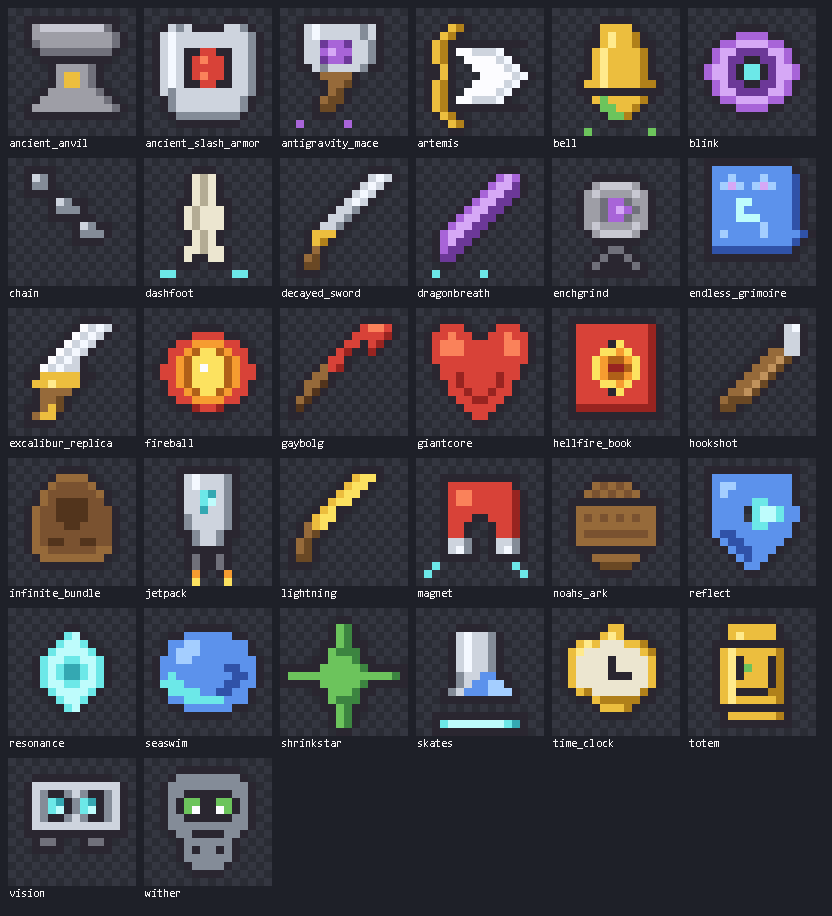
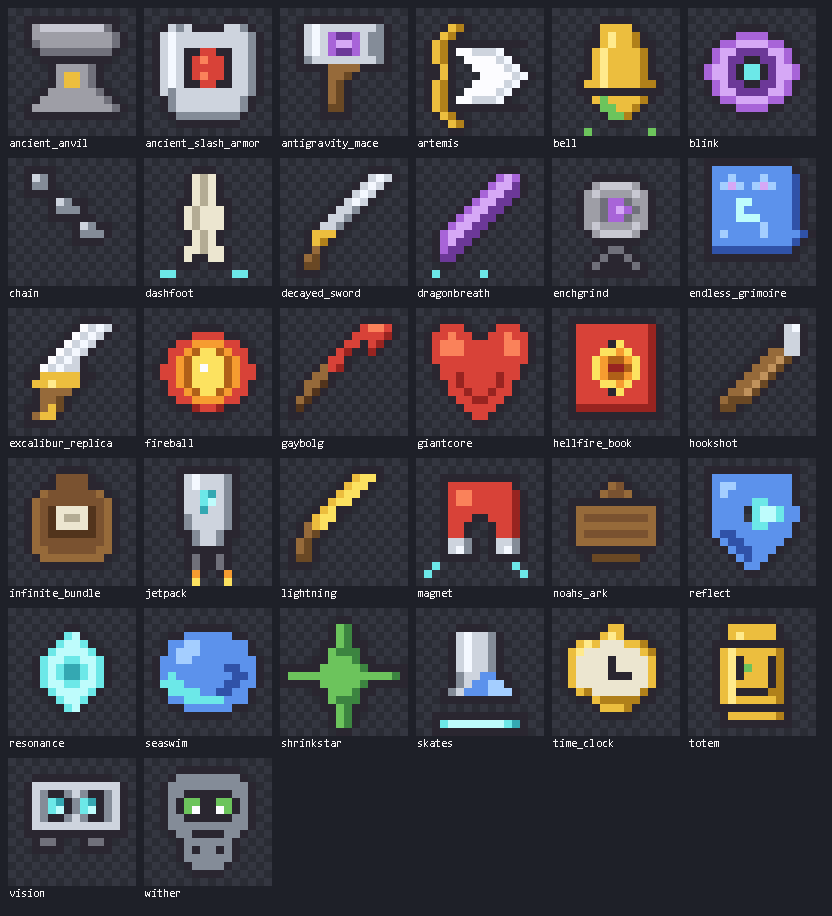
test: lock elite/craft rules; art: refine mace, bundle, ark sprites

Changed region(s): [[0.0312, 0.5197, 0.1562, 0.6114], [0.6875, 0.5197, 0.7812, 0.6419], [0.375, 0.0306, 0.4688, 0.1223]]

diff --git a/src/test/java/org/server/mifron/EliteAndCraftRulesTest.java b/src/test/java/org/server/mifron/EliteAndCraftRulesTest.java
@@ -1,0 +1,140 @@
+package org.server.mifron;
+
+import static org.junit.jupiter.api.Assertions.assertEquals;
+import static org.junit.jupiter.api.Assertions.assertFalse;
+import static org.junit.jupiter.api.Assertions.assertTrue;
+
+import java.util.Arrays;
+import org.bukkit.entity.EntityType;
+import org.junit.jupiter.api.Test;
+
+/**
+ * エリート改修と特殊クラフトの仕様を固定するテスト。
+ *
+ * <p>仕様（依頼）:
+ * <ul>
+ *   <li>狙撃弓は最大2倍まで引き絞れる</li>
+ *   <li>第二形態は エルダーガーディアン / ピグリンブルート / ウィザー / エンダードラゴン / ウォーデン のみ</li>
+ *   <li>腐死王系（ゾンビ・ハスク・ドラウンド）だけが Smite なしで復活する</li>
+ *   <li>狙撃弓・連射式弩弓はレリックではなく特殊クラフト</li>
+ * </ul>
+ */
+class EliteAndCraftRulesTest {
+
+   // ------------------------------------------------------------------
+   // 狙撃弓の引き絞り
+   // ------------------------------------------------------------------
+
+   @Test
+   void sniperRatioMatchesVanillaAtFullDraw() {
+      // 20tick = バニラのフルチャージ = 1.0倍
+      assertEquals(1.0, SpecialCraftFeature.sniperRatio(20), 1.0e-9);
+   }
+
+   @Test
+   void sniperRatioReachesTwiceAtDoubleDraw() {
+      assertEquals(2.0, SpecialCraftFeature.sniperRatio(40), 1.0e-9);
+   }
+
+   @Test
+   void sniperRatioIsCappedAtTwo() {
+      assertEquals(2.0, SpecialCraftFeature.sniperRatio(200), 1.0e-9,
+         "2倍を超えて伸びてはいけない");
+   }
+
+   @Test
+   void sniperRatioHasAFloorForTinyDraws() {
+      assertEquals(0.1, SpecialCraftFeature.sniperRatio(0), 1.0e-9);
+      assertEquals(0.1, SpecialCraftFeature.sniperRatio(1), 1.0e-9);
+   }
+
+   @Test
+   void sniperRatioIsMonotonic() {
+      double previous = -1.0;
+      for (int ticks = 0; ticks <= 60; ticks++) {
+         double value = SpecialCraftFeature.sniperRatio(ticks);
+         assertTrue(value >= previous, "倍率は tick に対して単調増加であるべき: " + ticks);
+         previous = value;
+      }
+   }
+
+   // ------------------------------------------------------------------
+   // 第二形態の制限
+   // ------------------------------------------------------------------
+
+   @Test
+   void phase2IsLimitedToTheFiveHeadlineBosses() {
+      for (EntityType type : new EntityType[] {
+         EntityType.ELDER_GUARDIAN, EntityType.PIGLIN_BRUTE, EntityType.WITHER,
+         EntityType.ENDER_DRAGON, EntityType.WARDEN
+      }) {
+         assertTrue(EliteMobFeature.supportsPhase2(type), type + " は第二形態を持つ");
+      }
+   }
+
+   @Test
+   void phase2IsRemovedFromEverythingElse() {
+      for (EntityType type : new EntityType[] {
+         EntityType.ZOMBIE, EntityType.HUSK, EntityType.DROWNED, EntityType.SKELETON,
+         EntityType.CREEPER, EntityType.ENDERMAN, EntityType.BLAZE, EntityType.SPIDER,
+         EntityType.GHAST, EntityType.RAVAGER, EntityType.WITCH, EntityType.PILLAGER,
+         EntityType.GUARDIAN, EntityType.SHULKER, EntityType.PHANTOM
+      }) {
+         assertFalse(EliteMobFeature.supportsPhase2(type), type + " は第二形態を持たない");
+      }
+      assertFalse(EliteMobFeature.supportsPhase2(null));
+   }
+
+   // ------------------------------------------------------------------
+   // 腐死王系の復活条件
+   // ------------------------------------------------------------------
+
+   @Test
+   void undeadKingsAreTheThreeZombieVariants() {
+      assertTrue(EliteMobFeature.isUndeadKing(EntityType.ZOMBIE));
+      assertTrue(EliteMobFeature.isUndeadKing(EntityType.HUSK));
+      assertTrue(EliteMobFeature.isUndeadKing(EntityType.DROWNED));
+      assertEquals(3, countUndeadKings());
+   }
+
+   @Test
+   void otherUndeadDoNotRevive() {
+      assertFalse(EliteMobFeature.isUndeadKing(EntityType.SKELETON));
+      assertFalse(EliteMobFeature.isUndeadKing(EntityType.WITHER_SKELETON));
+      assertFalse(EliteMobFeature.isUndeadKing(EntityType.ZOMBIE_VILLAGER));
+      assertFalse(EliteMobFeature.isUndeadKing(EntityType.PHANTOM));
+      assertFalse(EliteMobFeature.isUndeadKing(null));
+   }
+
+   private static int countUndeadKings() {
+      return (int) Arrays.stream(EntityType.values())
+         .filter(EliteMobFeature::isUndeadKing)
+         .count();
+   }
+
+   // ------------------------------------------------------------------
+   // レリックと特殊クラフトの住み分け
+   // ------------------------------------------------------------------
+
+   @Test
+   void sniperBowAndRepeatingCrossbowAreNotRelics() {
+      assertFalse(hasRelic("sniper_bow"), "狙撃弓は特殊クラフトへ移行した");
+      assertFalse(hasRelic("repeating_crossbow"), "連射式弩弓は特殊クラフトへ移行した");
+   }
+
+   @Test
+   void artemisIsARelic() {
+      assertTrue(hasRelic("artemis"));
+   }
+
+   @Test
+   void specialCraftIdsAreStable() {
+      assertEquals("sniper_bow", SpecialCraftFeature.SNIPER_BOW_ID);
+      assertEquals("repeating_crossbow", SpecialCraftFeature.REPEATING_CROSSBOW_ID);
+   }
+
+   private static boolean hasRelic(String id) {
+      return Arrays.stream(RelicFeature.RelicType.values())
+         .anyMatch(type -> type.id.equals(id));
+   }
+}

diff --git a/src/main/java/org/server/mifron/SpecialCraftFeature.java b/src/main/java/org/server/mifron/SpecialCraftFeature.java
@@ -46,6 +46,16 @@ public final class SpecialCraftFeature implements Listener {
     /** 連射式弩弓の連射間隔（tick）。 */
     private static final int REPEATER_INTERVAL_TICKS = 6;
 
+    /**
+     * 狙撃弓の引き絞り倍率。バニラのフルチャージ（20tick）を 1.0 とし、
+     * 40tick で上限 2.0 に達する。引きが浅すぎる場合は 0.1 に丸める。
+     */
+    static double sniperRatio(int drawTicks) {
+        double ratio = Math.min(SNIPER_MAX_MULTIPLIER,
+            Math.max(0, drawTicks) / (double) VANILLA_FULL_DRAW_TICKS);
+        return Math.max(0.1, ratio);
+    }
+
     private final Mifron plugin;
     private final NamespacedKey craftKey;
     private final Map<UUID, Long> sniperDrawStart = new HashMap<>();
@@ -115,8 +125,7 @@ public final class SpecialCraftFeature implements Listener {
         return item;
     }
 
-    /** アイテムがどの特殊クラフトか（違えば null）。 */
-    public String craftId(ItemStack item) {
+    /** アイテムがどの特殊クラフトか（違えば null）。 */    public String craftId(ItemStack item) {
         if (item == null || !item.hasItemMeta()) return null;
         ItemMeta meta = item.getItemMeta();
         if (meta == null) return null;
@@ -138,10 +147,7 @@ public final class SpecialCraftFeature implements Listener {
             : (int) Math.max(0L, (System.currentTimeMillis() - start) / 50L);
 
         // バニラのフルチャージを1.0倍とし、2倍まで伸ばす。
-        double ratio = Math.min(SNIPER_MAX_MULTIPLIER,
-            drawTicks / (double) VANILLA_FULL_DRAW_TICKS);
-        // 引きが浅すぎる場合はバニラ同様に弱くする。
-        if (ratio < 0.1) ratio = 0.1;
+        double ratio = sniperRatio(drawTicks);
 
         if (event.getProjectile() instanceof AbstractArrow arrow) {
             Vector velocity = arrow.getVelocity().multiply(ratio);
